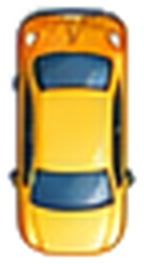
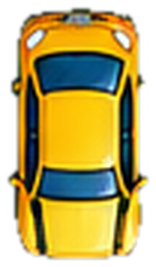
Use higher-resolution vehicles and roadside buildings from the green-screen sheet
Chroma-keyed cut-outs: 11 compacts, 8 sedans, 2 SUVs, 5 vans, 11 box
vans as trucks, 11 heavy trucks, an ambulance variant, and the SHOP and
HOTEL buildings as decorative houses. Buses, police/fire vehicles, booths,
trees and icons stay from the first sheet.

Claude-Session: https://claude.ai/code/session_01MkKN93cgWerh2da5PfugwU

diff --git a/Toll Road Tycoon/ASSETS.md b/Toll Road Tycoon/ASSETS.md
@@ -1,12 +1,15 @@
 # Grafica jocului: lista de imagini
 
-> **Stadiu:** din foaia de grafică primită s-au decupat automat (fundal eliminat, mărire ×3–×4):
-> toate vehiculele (4 variante pe tip, rotite cu fața în sus), cabina de taxare (+4 variante),
-> 5 copaci și iconițele (monedă, diamant, stea, cronometru, mașină, clipboard, drum, con, unelte,
-> ciocan, glob, cabină, angajat). Sursa avea obiecte mici (30–70 px), deci aceste imagini sunt
-> mai neclare decât ar fi niște fișiere generate separat la rezoluție mare. Restul listei
-> (iarbă, case, clădirea de taxare, copertină, barieră, panouri, butoane, logo, font) încă lipsește
-> și rămâne provizoriu.
+> **Stadiu:** din cele două foi de grafică primite s-au decupat automat (fundal eliminat, mărire ×3–×4):
+> * din foaia cu fundal verde: compacte (11 culori), sedanuri (8), SUV-uri (2), dube (5),
+>   camioane (11 dube de marfă), TIR-uri (11, inclusiv cisternă și transport bușteni), ambulanță,
+>   clădirile SHOP și HOTEL (case decorative pe marginea drumului);
+> * din prima foaie: autobuzele, mașinile de poliție/pompieri, cabinele de taxare, copacii și iconițele.
+>
+> Mașinile verzi și copacii din foaia verde nu se pot separa de fundalul verde, deci nu au fost folosiți.
+> Pentru grafică mai clară, aceleași obiecte generate la rezoluție mare (~512 px) le pot înlocui
+> direct. Încă lipsesc: iarba, clădirea de taxare, copertina, bariera orizontală, panourile, butoanele,
+> logo-ul și fontul.
 
 Jocul caută automat imaginile de mai jos în `Assets/Resources/Art/`. Fiecare imagine pe care o adaugi
 înlocuiește forma provizorie generată din cod. Cele care lipsesc rămân provizorii, deci grafica se
